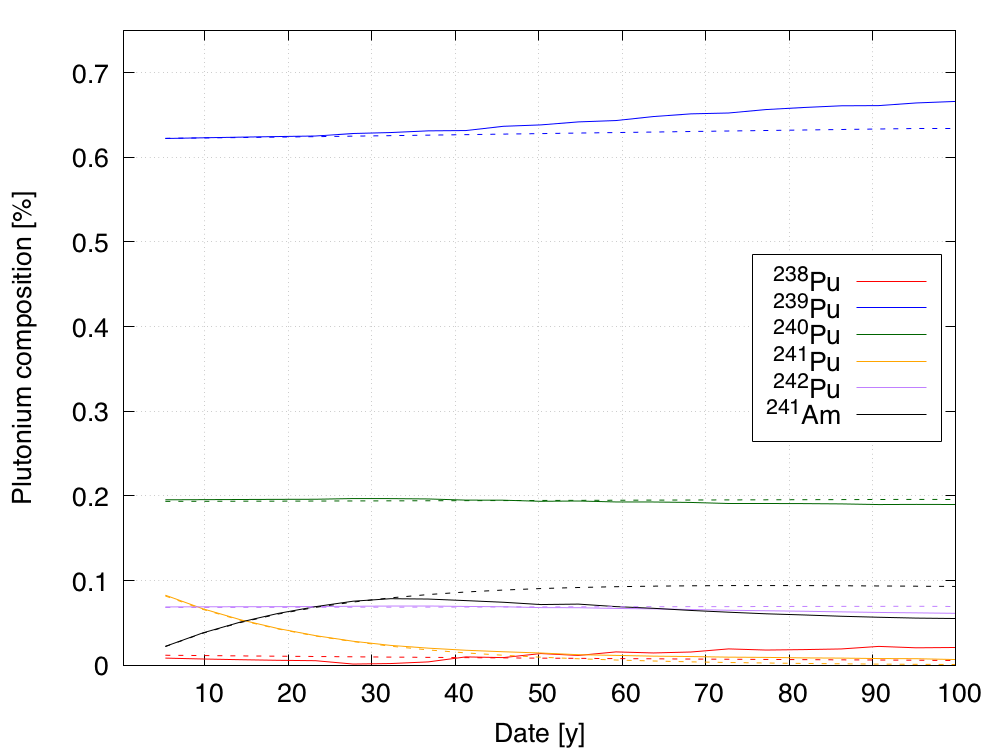
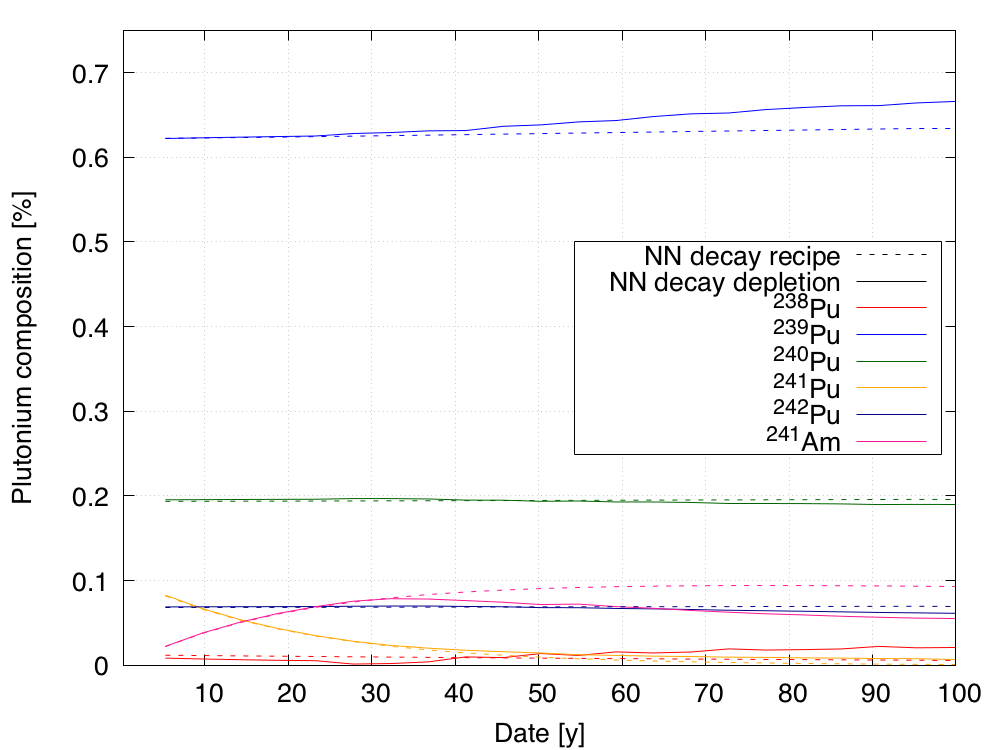
improve legend and composition plot

Changed region(s): [[0.589, 0.3067, 0.868, 0.6133], [0.248, 0.7973, 0.961, 0.828]]

diff --git a/paper.tex b/paper.tex
@@ -135,7 +135,8 @@ in the fresh PWR-MOX fuel.
   \centering
   \includegraphics[width=0.48\textwidth]{nodecay_pu_contribution.png}
   \caption{Evolution of the fraction of plutonium in the fresh PWR-MOX fuel
-  using the 3 predicted models, without considering decay.}
+  using the 3 predicted models: ``fix mixing ratio'' (blue), ``Pu-equivalent''
+  (green) and ``Neural Network'' (red), without considering decay.}
   \label{fig:nod}
 \end{figure}
 
@@ -150,11 +151,12 @@ fabrication modeling the effect is very quickly increasing to $13\%$ and then
 slowing stabilising while the plutonium inventory reach an equilibrium\ldots
 
 \begin{figure}[ht] % replace 't' with 'b' to force it to be on the bottom
-  \centering
+  \centering 
   \includegraphics[width=0.48\textwidth]{decay_pu_contribution.png}
   \caption{Evolution of the fraction of plutonium in the fresh PWR-MOX fuel
-  using the 3 prediction models, with and without decay enable.}
-  \label{fig:d}
+    using the 3 prediction models, with (plain line) and without (dash line)
+    decay enable.}
+  \label{fig:d} 
 \end{figure}
 
 As the calculation using ``Neural Network'' fabrication modeling, requires more
@@ -189,8 +191,9 @@ calculation in a fuel cycle macroscopic level.
   \centering
   \includegraphics[width=0.48\textwidth]{irradiation_pu_contribution.png}
   \caption{Evolution of the fraction of plutonium in the fresh PWR-MOX fuel
-  using the ``Neural Network'' prediction models, with decay enable using recipe
-based spent fuel composition and recalculated spent fuel composition.}
+    using the ``Neural Network'' prediction models, using recipe based spent
+    fuel composition (red) and recalculated spent fuel composition (orange),
+  with (plain line) and without (dash line) decay enable.} 
   \label{fig:depletion}
 \end{figure}
 
